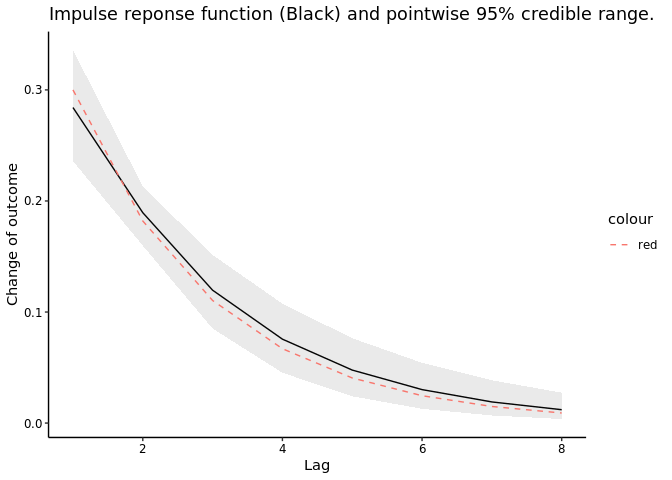
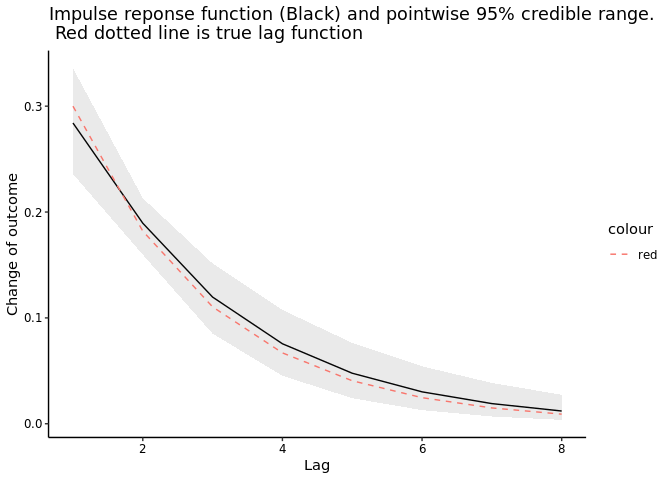
Figure label and hiding msg from stan model

diff --git a/README.md b/README.md
@@ -113,7 +113,46 @@ x <- x[-H] # Trim lag horizon
 
 #### Fitting stan models
 
-#### Compile results
+``` r
+### Compile and execute a Stan model 
+
+## Fixed intercept, no level 
+#fit1 <- stan(file="testModel_koyck.stan", data=c("T","y","x"), 
+#            iter=10000,  chains=3, control = list(max_treedepth = 15, adapt_delta = 0.95))
+
+## Quick check of mcmc
+#traceplot(fit1, pars = c("sigma_V", "beta", "lambda", "alpha"))
+#pairs(fit1, pars = c("sigma_V", "beta", "lambda", "alpha"))
+#sum(summary(fit1)$summary[,"Rhat"] > 1.01)
+
+
+## Fitting dynamic linar model, state vector (alpha) written in the transformed parameter block
+#fit2 <- stan(file="testModel_alphaLevel_koyck_reparam.stan", data=c("T","y","x"), 
+#            iter=10000,  chains=3, control = list(max_treedepth = 15, adapt_delta = 0.95))
+
+## Quick check of mcmc
+#traceplot(fit2, pars = c("sigma_V", "sigma_alpha[1]", "sigma_alpha[2]", "scale_alpha", "beta", "lambda", "alpha[1]", "alpha[200]", "alpha[300]"))
+#pairs(fit2, pars = c("sigma_V", "sigma_alpha[1]", "sigma_alpha[2]", "scale_alpha", "beta", "lambda", "alpha[1]", "alpha[200]", "alpha[300]"))
+#sum(summary(fit2)$summary[,"Rhat"] > 1.01)
+
+
+# Fitting dynamic linar model, state vector (alpha) written in the model block   
+fit3 <- stan(file="testModel_alphaLevel_koyck.stan", data=c("T","y","x"), 
+            iter=10000,  chains=3, control = list(max_treedepth = 15))
+
+# Quick check of mcmc
+traceplot(fit3, pars = c("sigma_V", "sigma_alpha", "beta", "lambda", "alpha[1]", "alpha[200]", "alpha[300]"))
+```
+
+``` r
+pairs(fit3, pars = c("sigma_V", "sigma_alpha",  "sigma_alpha", "beta", "lambda", "alpha[1]", "alpha[200]", "alpha[300]"))
+```
+
+``` r
+sum(summary(fit3)$summary[,"Rhat"] > 1.01)
+```
+
+#### Compile result (Impulse Response Function) - relevant only if there is a sign of convergence in MCMC
 
 ``` r
 ### Generate Impuse response function from fit 
@@ -138,7 +177,7 @@ p <-  ggplot(data = irfWeight, aes(x=(weekLag), y=median)) +
   geom_ribbon(aes(ymin=lo, ymax=hi), linetype=2, alpha=0.1)  + 
   scale_y_continuous(labels=scaleFUN) + 
   theme(axis.text = element_text(color = "black")) + 
-  ggtitle("Impulse reponse function (Black) and pointwise 95% credible range.")
+  ggtitle("Impulse reponse function (Black) and pointwise 95% credible range.\n Red dotted line is true lag function")
 
 # Add the true lag function 
 p + geom_line(aes(y = lagTrue, colour = "red"), linetype="dashed")
